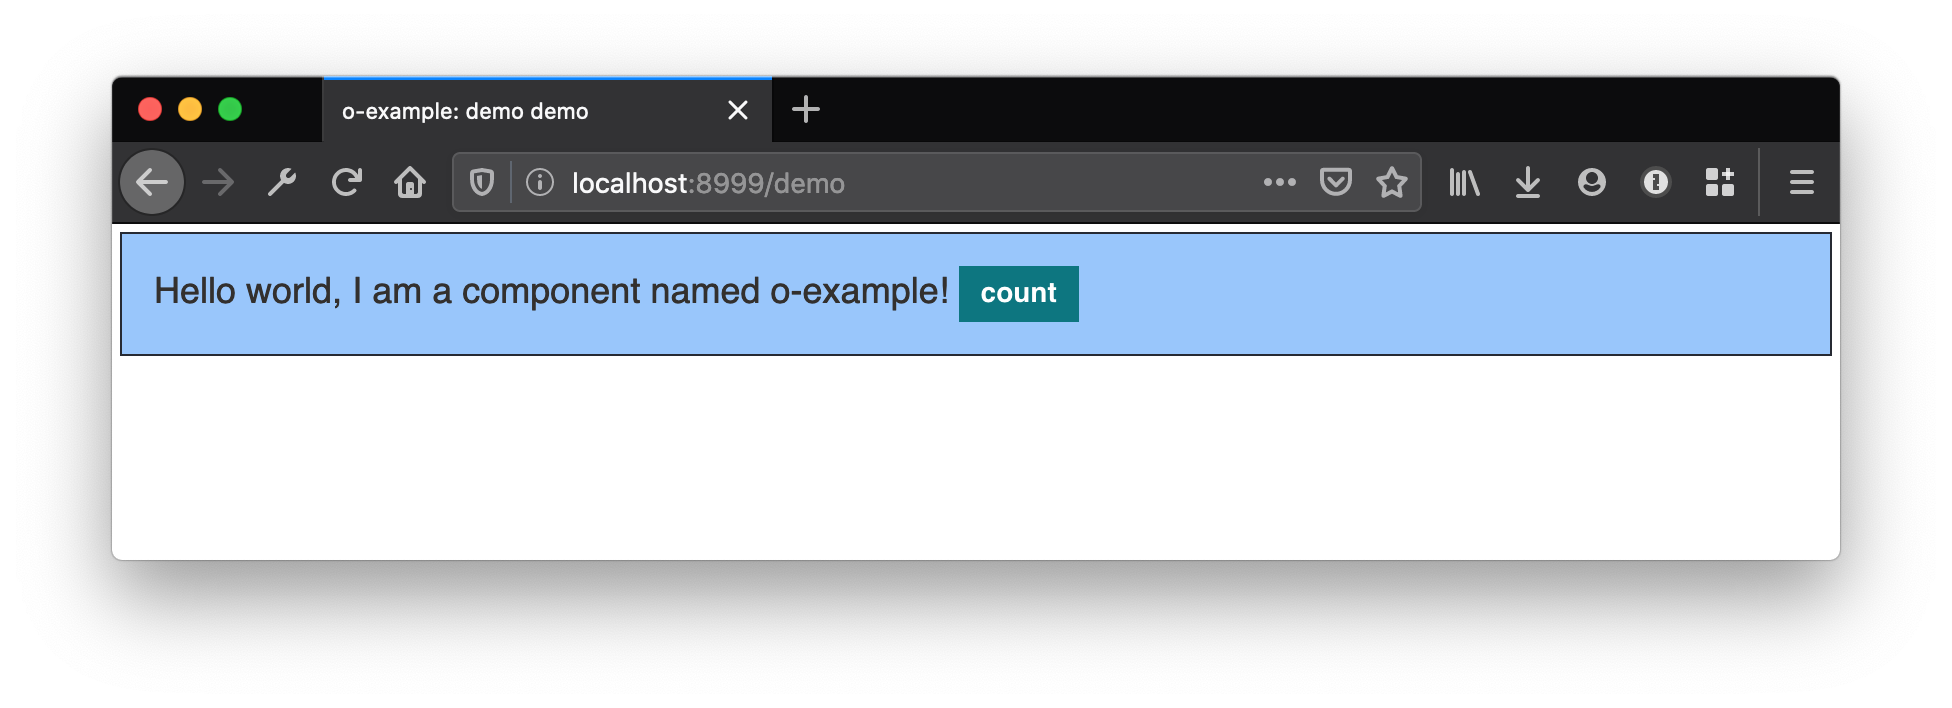
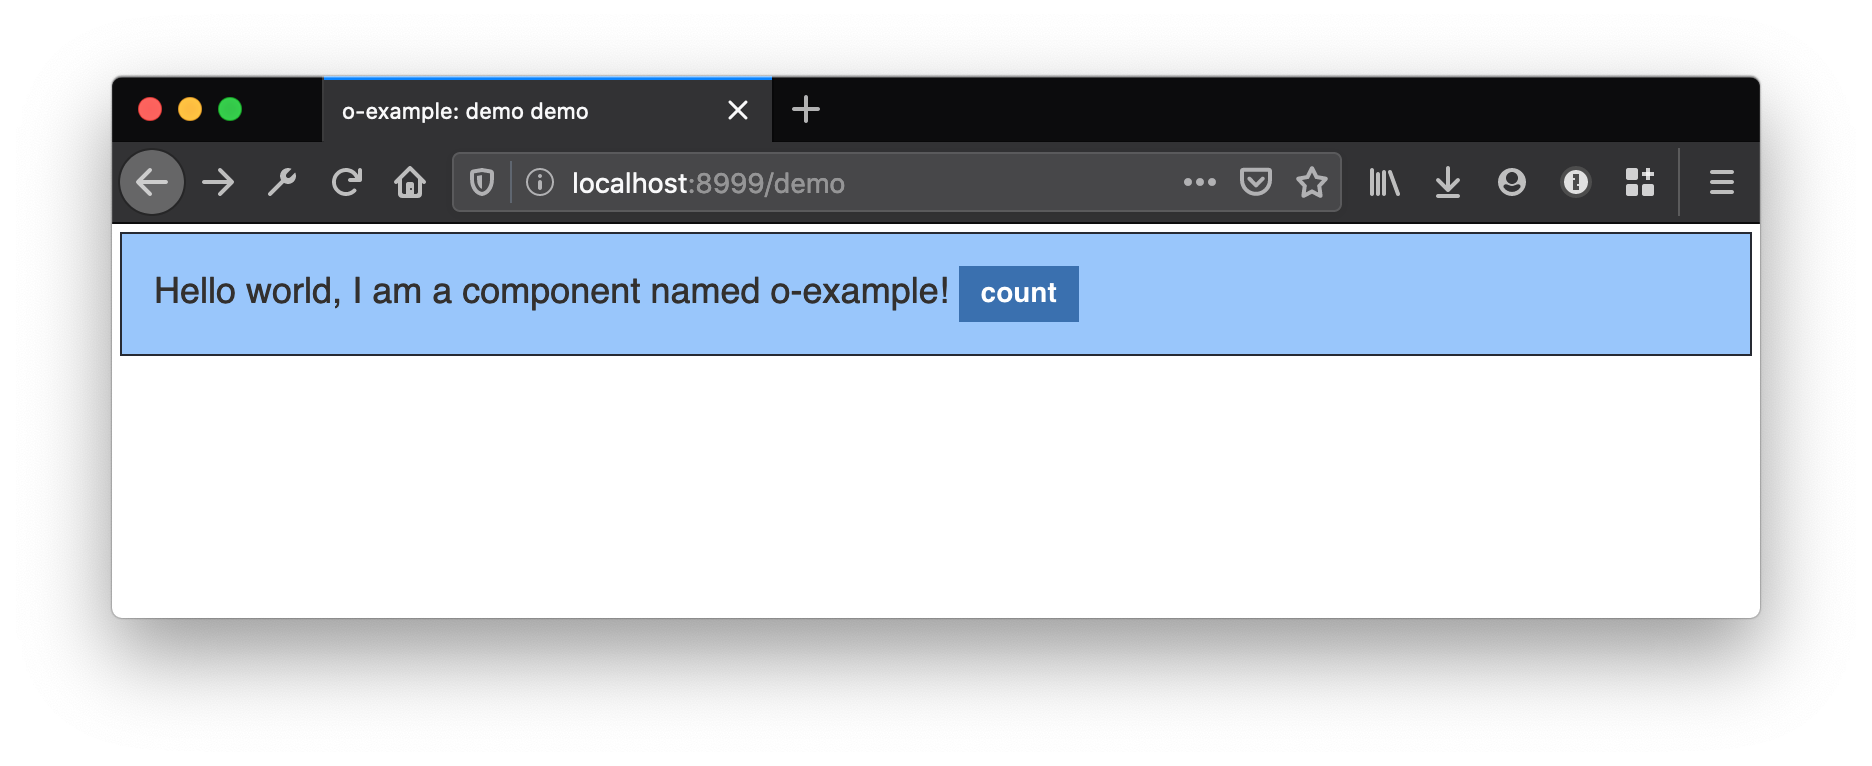
Add button theming to part 3 of the create component tutorial

Changed region(s): [[0.031, 0.0932, 0.9605, 0.5282], [0.062, 0.7768, 0.9605, 0.8079]]

diff --git a/_tutorials/new-component/create-a-new-component-part-3.md b/_tutorials/new-component/create-a-new-component-part-3.md
@@ -355,6 +355,7 @@ The `_oExampleSupports` function we briefly mentioned earlier will return `true`
 We can now complete our theme mixin:
 - Use `_oExampleSupports` with [the Sass `@error` at-rule](https://sass-lang.com/documentation/at-rules/error) to throw an error if the theme name given is not supported by the current brand.
 - Use `_oExampleGet` to get theme values.
+- Use `oButtonsContent` to update the button styles if there is a matching [o-buttons theme](https://registry.origami.ft.com/components/o-buttons@6.0.14/readme?brand=master#themes).
 
 <pre><code class="o-syntax-highlight--scss">@mixin oExampleAddTheme($name) {
 	// Error if an unsupported theme name is given.
@@ -366,6 +367,24 @@ We can now complete our theme mixin:
 	.o-example--#{$name} {
 		background: _oExampleGet('background-color', $from: $name);
 		color: _oExampleGet('text-color', $from: $name);
+	}
+
+	// Output theme css.
+	.o-example--#{$name} {
+		background: _oExampleGet('background-color', $from: $theme);
+		color: _oExampleGet('text-color', $from: $theme);
+		// Theme the o-example button using o-buttons.
+		// Only output button styles to change the theme,
+		// don't repeat styles shared by all buttons.
+		$matching-button-theme: $name == 'inverse' or $name == 'b2c';
+		@if $matching-button-theme {
+			.o-example__button {
+				@include oButtonsContent($opts: (
+					'type': 'primary',
+					'theme': $matching-button-theme
+				), $include-base-styles: false);
+			}
+		}
 	}
 }</code></pre>
 
@@ -423,7 +442,7 @@ Currently users of the `oExample` mixin are forced to output all themes. This wi
 
 ### Custom Theme
 
-We can make our `o-example` component more flexible by allowing users to create their own theme. To achieve that we will add an optional `$opts` argument to `oExampleAddTheme`. The `$opts` argument will accept a map of variables (like those we defined in `src/scss/_brand.scss`), and pass them to `_oExampleGet` to create a custom theme.
+We can make our `o-example` component more flexible by allowing users to create their own theme. To achieve that we will add an optional `$opts` argument to `oExampleAddTheme`. The `$opts` argument will accept a map of variables (like those we defined in `src/scss/_brand.scss`), and pass them to `_oExampleGet` to create a custom theme. We'll add support for one new option `button-color`, which we will forward to the `oButtonsContent` mixin, so custom `o-example` themes can change the colour of the button also.
 <pre><code class="o-syntax-highlight--scss">@mixin oExampleAddTheme($name, $opts: null) {
 	// Error if an unsupported theme name is given without
 	// `$opts` options. If `$opts` are given we are adding
@@ -440,6 +459,22 @@ We can make our `o-example` component more flexible by allowing users to create 
 	.o-example--#{$name} {
 		background: _oExampleGet('background-color', $from: $theme);
 		color: _oExampleGet('text-color', $from: $theme);
+		// Theme the o-example button using o-buttons.
+		// Only output button styles to change the theme,
+		// don't repeat styles shared by all buttons.
+		$matching-button-theme: $name == 'inverse' or $name == 'b2c';
+		// Theme the button with the `button-color` option if the theme
+		// name does not match inverse or b2c, existing o-buttons theme.
+		// https://registry.origami.ft.com/components/o-buttons@6.0.14/readme?brand=master#themes
+		$custom-button-color: _oExampleGet('button-color', $from: $theme);
+		@if $matching-button-theme or $custom-button-color {
+			.o-example__button {
+				@include oButtonsContent($opts: (
+					'type': 'primary',
+					'theme': if($matching-button-theme, $name, ('color': $custom-button-color))
+				), $include-base-styles: false);
+			}
+		}
 	}
 }</code></pre>
 
@@ -447,7 +482,8 @@ From a users point of view, this is how a custom theme will be created using our
 <pre><code class="o-syntax-highlight--scss">// Create a custom theme `.o-example--my-custom-theme`
 @include oExampleAddTheme('my-custom-theme', (
 	'background-color': oColorsByName('white'),
-	'text-color': oColorsByName('crimson')
+	'text-color': oColorsByName('crimson'),
+	'button-color': oColorsByName('white')
 ));</code></pre>
 
 ### Theme Markup
@@ -473,8 +509,6 @@ Update your demo markup  `demos/src/demo.mustache` with a theme class name to pr
         A master brand view of our "o-example" component with the `o-example--b2c` theme class applied.
 	</figcaption>
 </figure>
-
-For this tutorial, we aren't too worried that our button style does not match each theme. But if you would like to build on what we have covered, you could add a new variable such as `button-color` to the brand configuration and use [`oButtonsContent`](https://registry.origami.ft.com/components/o-buttons@6.0.14/readme?brand=master#custom-markup) in the theme mixin to change the button colour for each theme.
 
 ## Part Four: Demos
 
